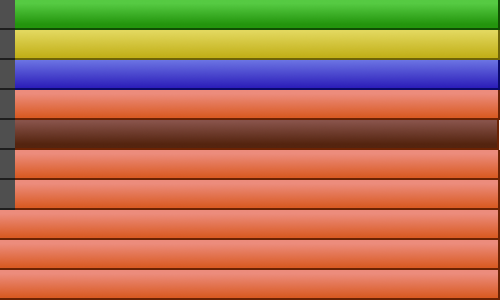
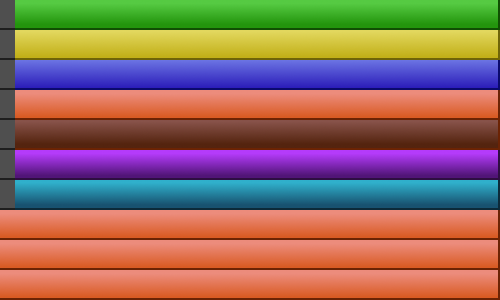
Music Select : implements bms search (in progress)

Changed region(s): [[0.03, 0.39, 1.0, 0.72]]

diff --git a/src/bms/player/beatoraja/select/MusicSelector.java b/src/bms/player/beatoraja/select/MusicSelector.java
@@ -13,6 +13,7 @@ import bms.player.beatoraja.input.BMSPlayerInputProcessor;
 import bms.player.beatoraja.skin.*;
 
 import com.badlogic.gdx.Gdx;
+import com.badlogic.gdx.Input.TextInputListener;
 import com.badlogic.gdx.audio.Sound;
 import com.badlogic.gdx.graphics.Color;
 import com.badlogic.gdx.graphics.GL20;
@@ -103,6 +104,8 @@ public class MusicSelector extends MainState {
 	private TableBar[] tables = new TableBar[0];
 
 	private CommandBar[] commands = { new MyBestBar(), new ClearLampBar(GrooveGauge.CLEARTYPE_FULLCOMBO, "FULL COMBO") };
+	
+	private List<SearchWordBar> search = new ArrayList<SearchWordBar>();
 
 	private MusicSelectSkin skin;
 
@@ -190,8 +193,7 @@ public class MusicSelector extends MainState {
 		if (scorecache[lnmode].containsKey(song.getSha256())) {
 			return scorecache[lnmode].get(song.getSha256());
 		}
-		IRScoreData score = main.getPlayDataAccessor().readScoreData(song.getSha256(), song.hasLongNote(),
-				lnmode);
+		IRScoreData score = main.getPlayDataAccessor().readScoreData(song.getSha256(), song.hasLongNote(), lnmode);
 		for (int i = 0; i < scorecache.length; i++) {
 			if (!song.hasLongNote() || i == lnmode) {
 				scorecache[i].put(song.getSha256(), score);
@@ -203,23 +205,24 @@ public class MusicSelector extends MainState {
 	Map<String, IRScoreData> readScoreDatas(SongData[] songs, int lnmode) {
 		Map<String, IRScoreData> result = new HashMap();
 		List<SongData> noscore = new ArrayList();
-		for(SongData song : songs) {
+		for (SongData song : songs) {
 			if (scorecache[lnmode].containsKey(song.getSha256())) {
-				result.put(song.getSha256(),scorecache[lnmode].get(song.getSha256()));
+				result.put(song.getSha256(), scorecache[lnmode].get(song.getSha256()));
 			} else {
 				noscore.add(song);
-			}			
+			}
 		}
-		
-		Map<String, IRScoreData> scores = main.getPlayDataAccessor().readScoreDatas(noscore.toArray(new SongData[0]), lnmode);
-		for(SongData song : noscore) {
+
+		Map<String, IRScoreData> scores = main.getPlayDataAccessor().readScoreDatas(noscore.toArray(new SongData[0]),
+				lnmode);
+		for (SongData song : noscore) {
 			IRScoreData score = scores.get(song.getSha256());
 			for (int i = 0; i < scorecache.length; i++) {
 				if (!song.hasLongNote() || i == lnmode) {
 					scorecache[i].put(song.getSha256(), score);
 				}
 			}
-			result.put(song.getSha256(),score);	
+			result.put(song.getSha256(), score);
 		}
 		return result;
 
@@ -373,6 +376,12 @@ public class MusicSelector extends MainState {
 			}
 			if (sd instanceof SongBar) {
 				barimage = skin.getBar()[0];
+			}
+			if (sd instanceof SearchWordBar) {
+				barimage = skin.getBar()[6];
+			}
+			if (sd instanceof CommandBar) {
+				barimage = skin.getBar()[5];
 			}
 
 			sprite.draw(barimage, x, y, w * 2 / 5, barh);
@@ -703,6 +712,23 @@ public class MusicSelector extends MainState {
 
 		boolean[] numberstate = input.getNumberState();
 		long[] numtime = input.getNumberTime();
+		if (numberstate[0] && numtime[0] != 0) {
+			numtime[0] = 0;
+			Gdx.input.getTextInput(new TextInputListener() {
+				@Override
+				public void input(String text) {
+					if(text.length() > 1) {
+						search.add(new SearchWordBar(MusicSelector.this, text));
+						dir.clear();
+						updateBar(null);
+					}
+				}
+				@Override
+				public void canceled() {
+				}
+			}, "Search", "", "Search bms title");
+		}
+
 		if (numberstate[1] && numtime[1] != 0) {
 			// KEYフィルターの切り替え
 			mode = (mode + 1) % MODE.length;
@@ -980,6 +1006,7 @@ public class MusicSelector extends MainState {
 			l.addAll(Arrays.asList(new FolderBar(this, null, "e2977170").getChildren()));
 			l.addAll(Arrays.asList(tables));
 			l.addAll(Arrays.asList(commands));
+			l.addAll(search);
 		} else if (bar instanceof DirectoryBar) {
 			l.addAll(Arrays.asList(((DirectoryBar) bar).getChildren()));
 		}
@@ -1059,8 +1086,8 @@ public class MusicSelector extends MainState {
 
 				}
 			}
-			
-			if(loader != null) {
+
+			if (loader != null) {
 				loader.stopRunning();
 			}
 			loader = new BarContentsLoaderThread(currentsongs);
@@ -1161,27 +1188,27 @@ public class MusicSelector extends MainState {
 	SongDatabaseAccessor getSongDatabase() {
 		return songdb;
 	}
-	
+
 	private BarContentsLoaderThread loader;
-	
+
 	class BarContentsLoaderThread extends Thread {
 
 		private Bar[] bars;
 		private boolean stop = false;
-		
+
 		public BarContentsLoaderThread(Bar[] bar) {
 			this.bars = bar;
 		}
-		
+
 		@Override
 		public void run() {
-			for(Bar bar : bars) {
-				if(bar instanceof SongBar) {
-					((SongBar)bar).loadBanner();
+			for (Bar bar : bars) {
+				if (bar instanceof SongBar) {
+					((SongBar) bar).loadBanner();
 					SongData sd = ((SongBar) bar).getSongData();
 					bar.setScore(readScoreData(sd, config.getLnmode()));
-					((SongBar) bar).setExistsReplayData(main.getPlayDataAccessor().existsReplayData(
-							sd.getSha256(), sd.hasLongNote(), config.getLnmode()));
+					((SongBar) bar).setExistsReplayData(main.getPlayDataAccessor().existsReplayData(sd.getSha256(),
+							sd.hasLongNote(), config.getLnmode()));
 				}
 				if (bar instanceof GradeBar) {
 					GradeBar gb = (GradeBar) bar;
@@ -1195,25 +1222,25 @@ public class MusicSelector extends MainState {
 						gb.setScore(main.getPlayDataAccessor().readScoreData(hash, ln, config.getLnmode(), 0));
 						gb.setMirrorScore(main.getPlayDataAccessor().readScoreData(hash, ln, config.getLnmode(), 1));
 						gb.setRandomScore(main.getPlayDataAccessor().readScoreData(hash, ln, config.getLnmode(), 2));
-						gb.setExistsReplayData(main.getPlayDataAccessor().existsReplayData(
-								hash, ln, config.getLnmode()));
+						gb.setExistsReplayData(main.getPlayDataAccessor()
+								.existsReplayData(hash, ln, config.getLnmode()));
 					}
 				}
 
-				if(config.isFolderlamp()) {
-					if(bar instanceof FolderBar) {
-						((FolderBar)bar).updateFolderStatus();
+				if (config.isFolderlamp()) {
+					if (bar instanceof FolderBar) {
+						((FolderBar) bar).updateFolderStatus();
 					}
-					if(bar instanceof TableLevelBar) {
-						((TableLevelBar)bar).updateFolderStatus();
-					}					
+					if (bar instanceof TableLevelBar) {
+						((TableLevelBar) bar).updateFolderStatus();
+					}
 				}
-				if(stop) {
+				if (stop) {
 					break;
 				}
 			}
 		}
-		
+
 		public void stopRunning() {
 			stop = true;
 		}

diff --git a/src/bms/player/beatoraja/SongDatabaseAccessor.java b/src/bms/player/beatoraja/SongDatabaseAccessor.java
@@ -193,6 +193,26 @@ public class SongDatabaseAccessor {
 
 		return result;
 	}
+	
+	public SongData[] getSongDatas(String text, String lr2path) {
+		SongData[] result = new SongData[0];
+		try {
+			List<SongData> m = qr.query( "SELECT * FROM song WHERE rtrim(title||' '||subtitle||' '||artist||' '||subartist) LIKE ?"
+					+ " GROUP BY sha256",
+					new BeanListHandler<SongData>(SongData.class), "%" + text.replaceAll("'", "''") + "%");
+
+			for (SongData song : m) {
+				if (!song.getPath().startsWith("/") && !song.getPath().contains(":\\")) {
+					song.setPath(lr2path + "\\" + song.getPath());
+				}
+			}
+			result = m.toArray(new SongData[0]);
+		} catch (Exception e) {
+			Logger.getGlobal().severe("song.db更新時の例外:" + e.getMessage());
+		}
+
+		return result;
+	}
 
 	/**
 	 * 楽曲を取得する
@@ -530,10 +550,8 @@ public class SongDatabaseAccessor {
 			BMSModel model = null;
 			if (FilenameUtils.isExtension(name, BMS)) {
 				model = bmsdecoder.decode(dir);
-				qr.update(conn, "DELETE FROM song WHERE path = ?", s);
 			} else if (FilenameUtils.isExtension(name, BMSON)) {
 				model = bmsondecoder.decode(dir);
-				qr.update(conn, "DELETE FROM song WHERE path = ?", s);
 			}
 
 			if (model != null && (model.getTotalNotes() != 0 || model.getWavList().length != 0)) {
@@ -552,7 +570,7 @@ public class SongDatabaseAccessor {
 				ln += model.getRandom() > 1 ? FEATURE_RANDOM : 0;
 				int txt = containstxt ? CONTENT_TEXT : 0;
 				txt += model.getBgaList().length > 0 ? CONTENT_BGA : 0;
-				qr.update(conn, "INSERT INTO song "
+				qr.update(conn, "INSERT OR REPLACE INTO song "
 						+ "(md5, sha256, title, subtitle, genre, artist, subartist, tag, path,"
 						+ "folder, stagefile, banner, backbmp, parent, level, difficulty, "
 						+ "maxbpm, minbpm, mode, judge, feature, content, " + "date, favorite, notes, adddate)"
@@ -566,6 +584,8 @@ public class SongDatabaseAccessor {
 						model.getUseKeys(), model.getJudgerank(), ln, txt, dir.lastModified() / 1000, 0,
 						model.getTotalNotes(), Calendar.getInstance().getTimeInMillis() / 1000);
 				count++;
+			} else {
+				qr.update(conn, "DELETE FROM song WHERE path = ?", s);
 			}
 		}
 	}

diff --git a/src/bms/player/beatoraja/select/Bar.java b/src/bms/player/beatoraja/select/Bar.java
@@ -461,3 +461,30 @@ class ClearLampBar extends CommandBar {
 	}
 
 }
+
+class SearchWordBar extends DirectoryBar {
+
+	private String text;
+	private MusicSelector selector;
+
+	public SearchWordBar(MusicSelector selector, String text) {
+		this.selector = selector;
+		this.text = text;
+	}
+	
+	@Override
+	public Bar[] getChildren() {
+		List<SongBar> songbars = new ArrayList<SongBar>();
+		SongData[] songs = selector.getSongDatabase().getSongDatas(text, new File(".").getAbsolutePath());
+		for (SongData song : songs) {
+			songbars.add(new SongBar(song));
+		}
+		return songbars.toArray(new Bar[0]);
+	}
+
+	@Override
+	public String getTitle() {
+		return "Search : '" + text + "'";
+	}
+	
+}
